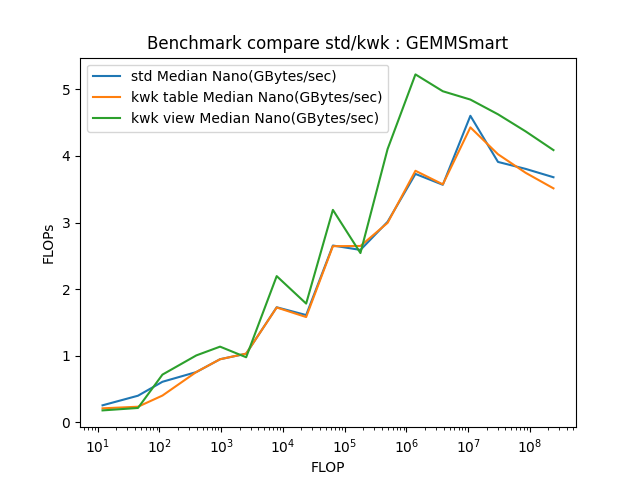
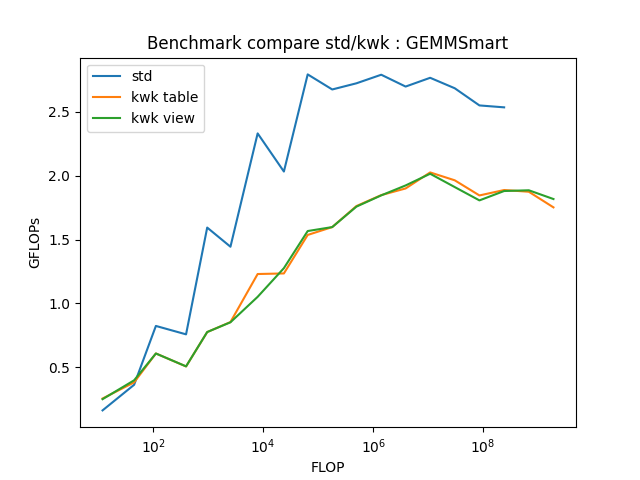
prep reunion

diff --git a/benchmark/maths/GEM/plot_compare.py b/benchmark/maths/GEM/plot_compare.py
@@ -9,25 +9,31 @@ def Parse(fname1, fname2, fname3, df1, df2, df3, Function, metric, plot_type, sa
       copy1 = df1.loc[df1['Function'] == f]
       copy2 = df2.loc[df2['Function'] == f]
       copy3 = df3.loc[df3['Function'] == f]
-      plot(copy1, copy2, copy3, f, metric, save)
+      opblas = 'BLAS' + f[0:4]
+      blas = df1.loc[df1['Function'] == opblas]
+
+      plot(copy1, copy2, copy3, blas, f, metric, save)
 
       if save:
-        plt.savefig('Benchmark_compare' + '_' + f)
+        plt.savefig('compare/Benchmark_compare' + '_' + f)
       else:
         plt.show()
 
       
-def plot(df1, df2, df3, Function, metric, save):
+def plot(df1, df2, df3, blas, Function, metric, save):
   plt.semilogx(df1['Size(Bytes)'], df1[metric])
   plt.semilogx(df2['Size(Bytes)'], df2[metric])
   plt.semilogx(df3['Size(Bytes)'], df3[metric])
+  # plt.semilogx(blas['Size(Bytes)'], blas[metric])
+
   plt.xlabel('FLOP')
-  plt.ylabel('FLOPs')
+  plt.ylabel('GFLOPs')
   plt.title('Benchmark compare std/kwk' + " : " + Function)
-  metric1 = ['std ' + m for m in metric]
-  metric2 = ['kwk table ' + m for m in metric]
-  metric3 = ['kwk view ' + m for m in metric]
-  plt.legend(metric1 + metric2 + metric3)
+  metric1 = ['std']
+  metric2 = ['kwk table']
+  metric3 = ['kwk view']
+  # metric4 = ['BLAS']
+  plt.legend(metric1 + metric2 + metric3 )
 
 
 def main():
